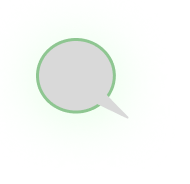
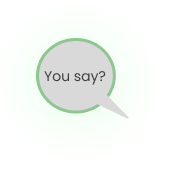
Added some changes on the images in the why section

Changed region(s): [[0.3947, 0.3804, 0.5526, 0.462], [0.2368, 0.3804, 0.3684, 0.462]]

diff --git a/app/components/landing-page/Why.tsx b/app/components/landing-page/Why.tsx
@@ -106,25 +106,23 @@ const Why = () => {
               alt='Chat bubble "You say?" background'
               width={110}
               height={110}
-              className="absolute top-[-10px] left-10 z-0"
+              className="absolute top-[-10px] left-23 z-0"
             />
-            <span className="absolute top-[28px] left-[78px] text-sm font-semibold z-10 text-gray-800">
-            </span>
+            <span className="absolute top-[28px] left-[78px] text-sm font-semibold z-10 text-gray-800"></span>
             <Image
               src="/comment2.png"
               alt='Chat bubble "Sealed!" background'
               width={110}
               height={110}
-              className="absolute top-1 right-10 z-10"
+              className="absolute top-1 right-23 z-0"
             />
-            <span className="absolute top-[38px] right-[58px] text-sm font-semibold z-20 text-gray-800">
-            </span>
+            <span className="absolute top-[48px] right-[58px] text-sm font-semibold z-20 text-gray-800"></span>
             <Image
               src="/peoples.png"
               alt="Two people icon"
               width={40}
               height={40}
-              className="absolute top-1/2 left-1/2 -translate-x-1/2 -translate-y-1/2"
+              className="absolute top-1/2 left-1/2 -translate-x-3/5 -translate-y-1/12"
             />
           </div>
           <div className="flex items-center space-x-2">

diff --git a/app/page.tsx b/app/page.tsx
@@ -5,6 +5,7 @@ import Users from "./components/landing-page/Users";
 import About from "./components/landing-page/About";
 import Listing from "./components/landing-page/Listing";
 import Why from "./components/landing-page/Why";
+import Post from "./components/landing-page/Post";
 
 export default function Home() {
   return (
@@ -17,6 +18,7 @@ export default function Home() {
           <About />
           <Listing />
           <Why />
+          <Post />
         </section>
       </main>
     </div>

diff --git a/app/components/landing-page/Post.tsx b/app/components/landing-page/Post.tsx
@@ -1,0 +1,12 @@
+import React from 'react'
+
+const Post = () => {
+  return (
+    <div className='bg-[background: linear-gradient(94.1deg, #F9F9F9 0.39%, rgba(236, 245, 237, 0.62) 102.86%);
+] mt-10'>
+      
+    </div>
+  )
+}
+
+export default Post
